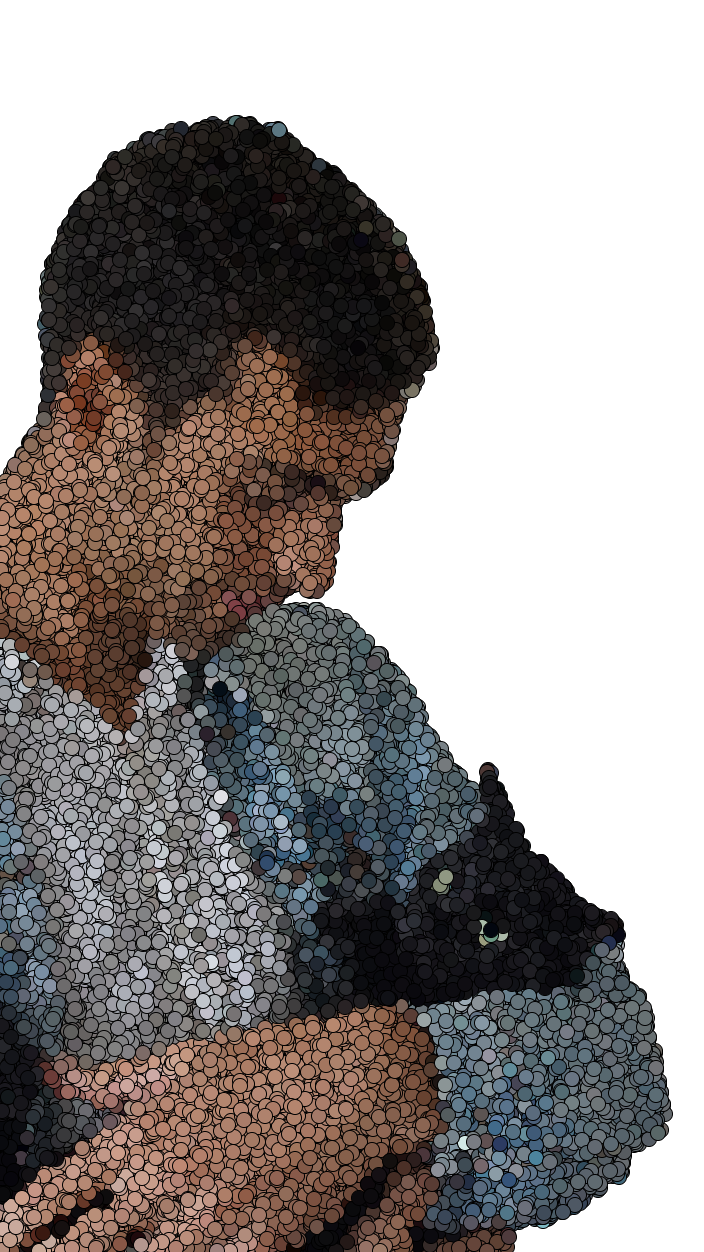
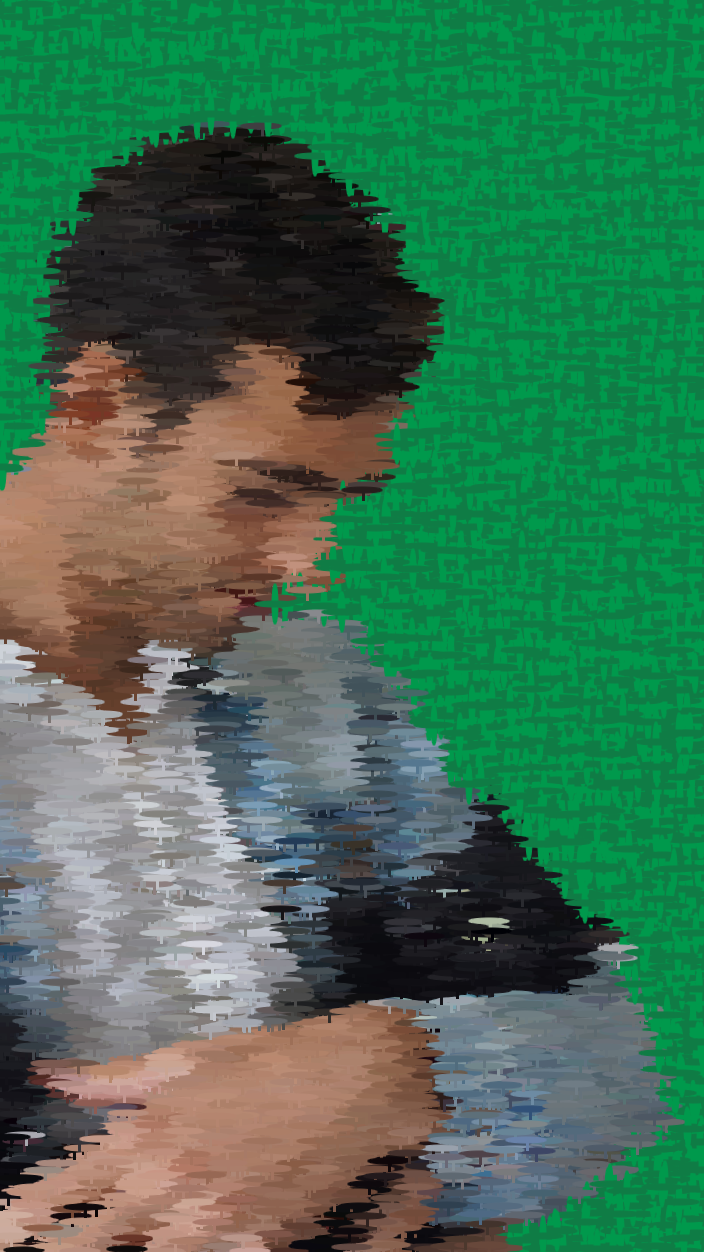
added image2

diff --git a/sketch.js b/sketch.js
@@ -2,9 +2,9 @@ let sourceImg=null;
 let maskImg=null;
 let renderCounter=0;
 
-let sourceFile = "input_1.jpg";
-let maskFile   = "mask_1.png";
-let outputFile = "artwork_1.png";
+let sourceFile = "input_2.jpg";
+let maskFile   = "mask_2.png";
+let outputFile = "artwork_2.png";
 
 function preload() {
   sourceImg = loadImage(sourceFile);
@@ -28,19 +28,23 @@ function draw () {
     let y = floor(random(sourceImg.height));
     let pix = sourceImg.get(x, y);
     let mask = maskImg.get(x, y);
-    let halfSize = 50;
-    fill(pix);
-    stroke(0);
+    let pointSize = 30;
+    let rectSize = 2;
+    let halfSize = 6;
+    let halfrectSize = 10;
     if(mask[0] > 128) {
-      let pointSize = 15;
-      ellipse(x, y, pointSize, pointSize);
+      fill(pix);
+      stroke(pix);
+      rect(x, y, rectSize, halfrectSize);   
+      ellipse(x, y, pointSize, halfSize); 
     }
     else {
-      stroke(0);
-      let pointSize = 2;
-      let x2 = sourceImg.width;
-      let y2 = sourceImg.height;
-      line(0, sourceImg.height, sourceImg.width, sourceImg.height);    
+      fill(9, 135, 198);
+      stroke(9, 135, 198);
+      ellipse(x, y, halfSize, pointSize);
+      fill(28, 140, 226);
+      stroke(28, 140, 226);
+      ellipse(x, y, pointSize, halfSize); 
     }
   }
   renderCounter = renderCounter + 1;
